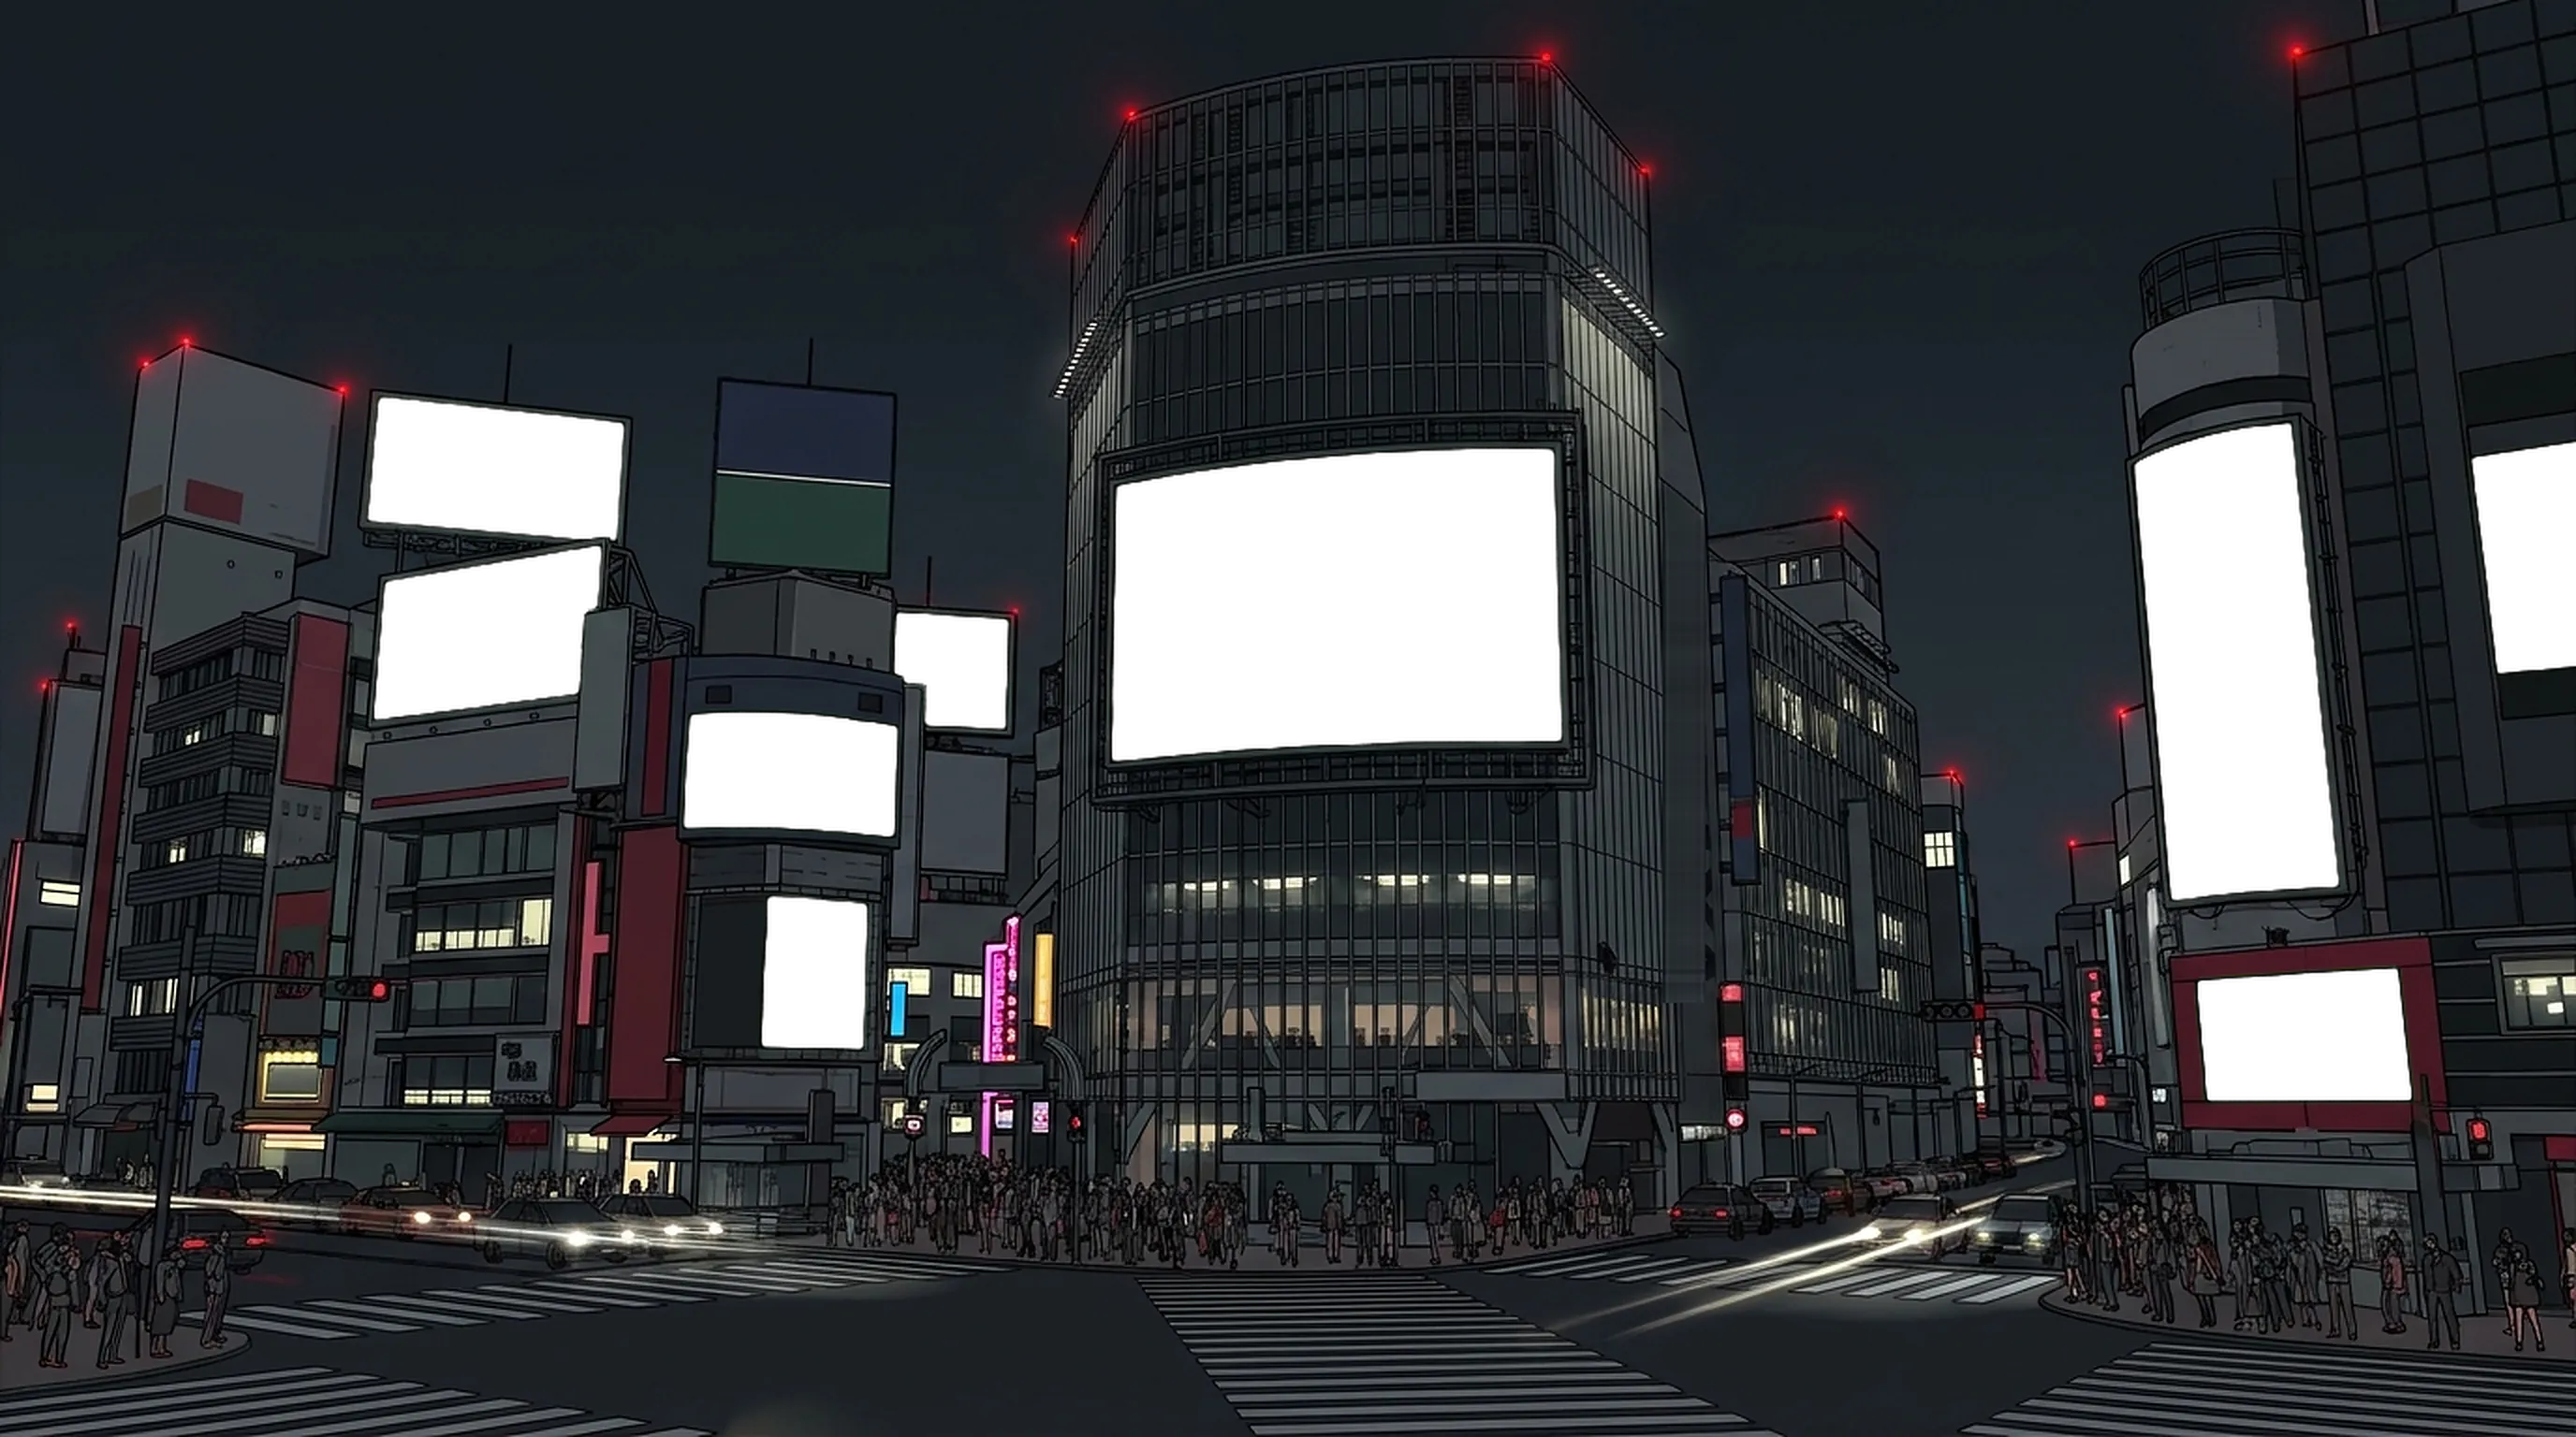
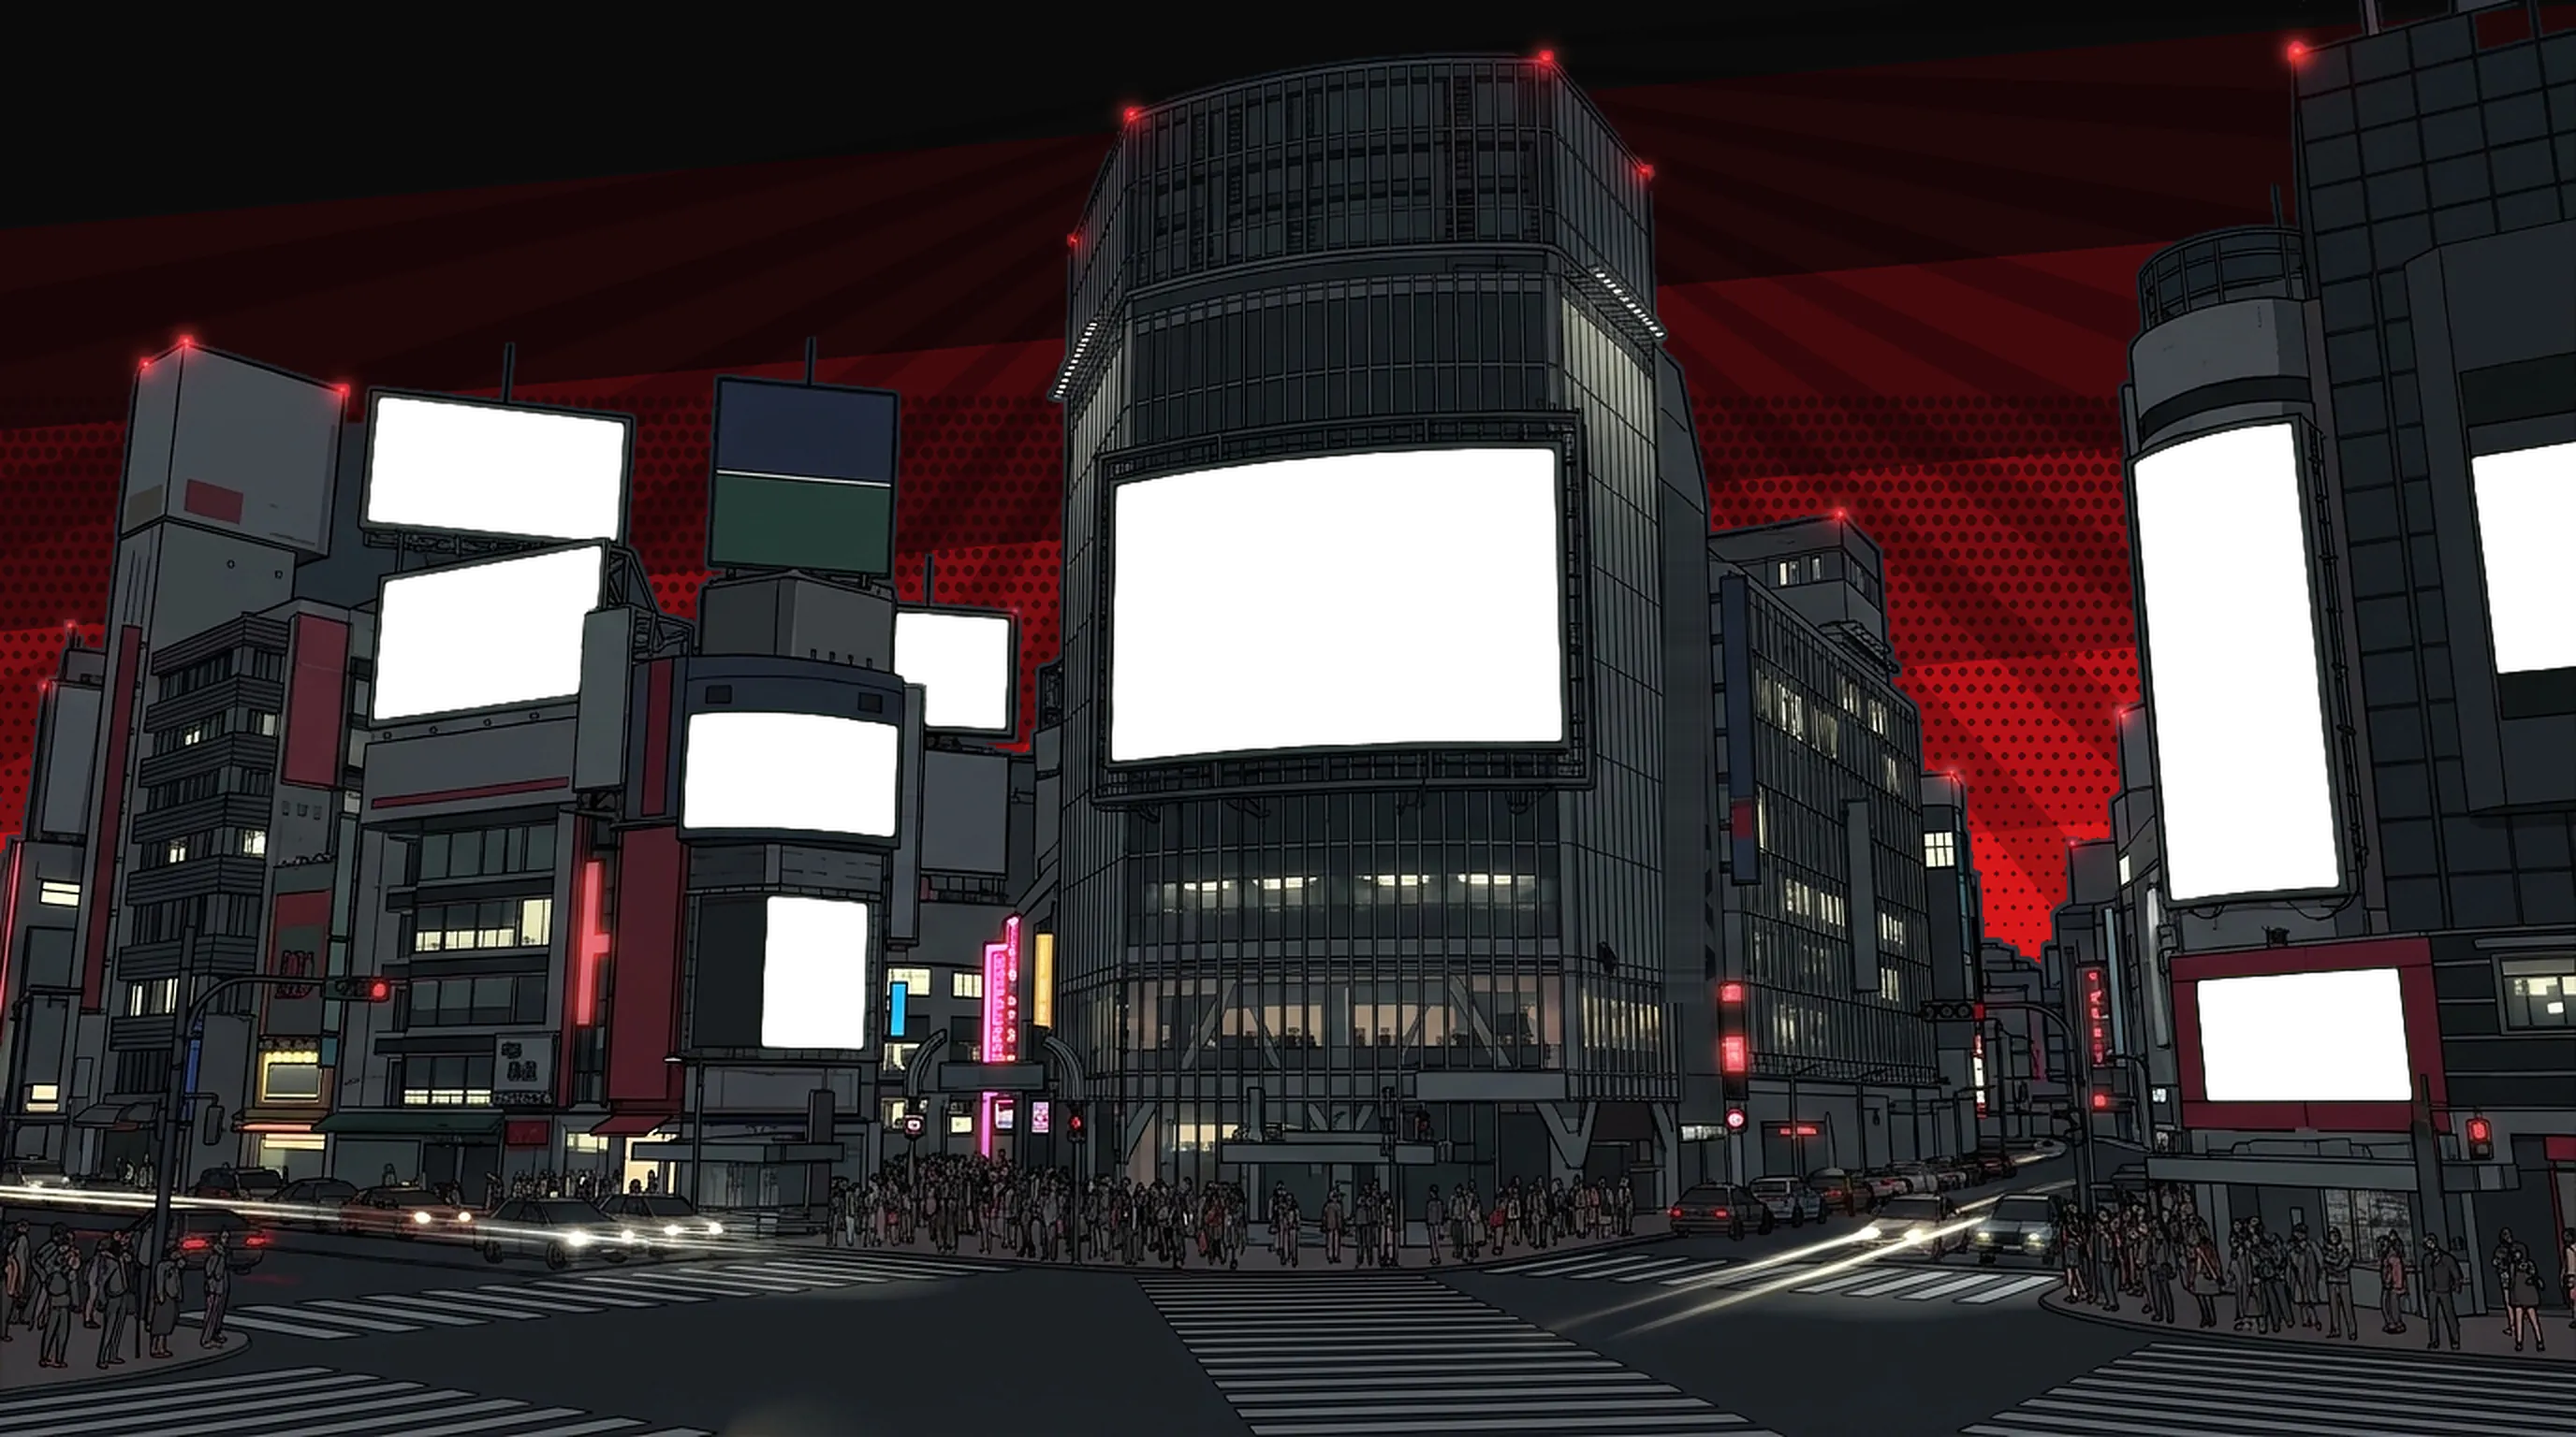
Red and black sky over the square

diff --git a/tests/e2e/site.spec.js b/tests/e2e/site.spec.js
@@ -1238,11 +1238,10 @@ test('SIDE QUESTS plays THE SQUARE: a painted square with nine screens, the big 
   const run = sq.locator('.sq-main .sq-bar .sq-bar-run');
   await expect(run.locator('span')).toHaveCount(4);
   const x0 = await run.evaluate((e) => e.getBoundingClientRect().left);
-  await page.waitForTimeout(250);
-  expect(await run.evaluate((e) => e.getBoundingClientRect().left)).toBeGreaterThan(x0);
+  await expect.poll(() => run.evaluate((e) => e.getBoundingClientRect().left), { timeout: 3000 }).toBeGreaterThan(x0);
   for (const t of ['TAKE YOUR', '2,000+', '727', 'BORING']) await expect(sq).not.toContainText(t); // (fresh lines, not the ones the rest of the site repeats)
-  await expect(page.locator('body')).toHaveAttribute('data-screen', 'side-quests', { timeout: 8000 });
-  await expect(sq).toHaveCount(0, { timeout: 4000 }); // (it cleans itself up)
+  await expect(page.locator('body')).toHaveAttribute('data-screen', 'side-quests', { timeout: 12000 });
+  await expect(sq).toHaveCount(0, { timeout: 8000 }); // (it cleans itself up)
 });
 
 test('the departure board and the station lights never show off the title (they used to hang faded over the city on THE PLAN)', async ({ page }) => {

diff --git a/DESIGN.md b/DESIGN.md
@@ -163,7 +163,7 @@ From John's research notes (kept verbatim in spirit):
   - **THE DROP** (board -> any page): the board rushes at you and splits on a jagged seam, you are on a rooftop over the night city, you drop past a skyscraper's windows (motion-blur smear grows with speed, speed lines), the chapter name rides the fall in cut-out letters, white star-flash landing.
   - **THE RISE** (back to the board): the page falls away below, you rocket up the tower and burst over the roof into a semi bird's-eye view of the city, "THE BOARD" sign, star-flash.
   - **NEXT STOP** (SKILLS' entrance): **from inside the train car** (Nano Banana interior `interior.webp`: ring hoops, plain light strip, bench; windows keyed see-through). Tunnel lights streak past, the car rocks, the station glides into the windows and stops; its sign (fitted inside one window pane, the camera aims at that pane on phones) reads the next chapter; ding-dong; star-flash.
-  - **SIDE QUESTS = THE SQUARE** (Nov 20, John: "make it look like an actual billboard instead of a poster in front of a building... the middle of a Tokyo square, other mini advertisements, our star design, our philosophy, our name, filler billboards... the biggest in the middle is SIDE QUESTS... digital, attached to the building with the same textures"). An original night scramble-crossing square (Gemini, Nano Banana Pro, toon style; a fake vertical "word" on one building painted out), its **nine video screens painted into the buildings** (bezels, frames, brackets) and keyed clear (`square.webp`). The ads are **live LED content behind the picture**, each mapped onto its measured four corners (`rectToQuad`, 5% overscan under the bezel), with an LED dot grid and a glow of its own colour spilling onto the frame: NOW SHOWING / SIDE QUESTS in cut-out letters (the big centre screen), LOOK CLOSER (tall), WANTED JOHN NGUYEN, our spinning star on halftone, BREAK THE ROUTINE, STEAL THE SHOW, NEW ? LEAD, JN, red hazard stripes. **The square's ads never repeat the lines the rest of the site already uses** (Nov 21, John: "we used a lot of the sayings, the apps, take your time, how many tests... make it different, yet close to our Persona 5 themed resume"): fresh heist / investigation lines in the calling-card voice, no stats, no motto (a test checks TAKE YOUR, 2,000+, 727 and BORING are absent). The small ads switch on first, the big one last. **Every ad moves** (Nov 21, John: "make the ads animate more"): a bright scan bar rolls down every screen; a **black bar across the top of the big screen** (Nov 21, John: "not obstructing the headline... NOW SHOWING traversing from the left side to the right... another pops up from the left, like a loop") carries NOW SHOWING ★ in yellow LED, sliding left to right in a seamless loop (a track of two identical halves moved by one half; the headline sits below it), the black slash slides, the SIDE QUESTS letters hop; LOOK blinks and CLOSER zooms, a drawn eye glances side to side; WANTED blinks and JOHN jolts; STEAL THE SHOW ★ scrolls as a ticker; ROUTINE glitches; the ? bounces; JN flips with a light sweep; the star spins; the stripes run. **The push is slow enough to read** ("make the zoom in to the big ad slower so users can read it"): the square holds 0.8 s, the camera drifts into SIDE QUESTS over 1.05 s (power2.in: slow first, fast only at the end), flash, the page at 1.85 s (this cut is longer than the others on purpose). Reduced motion: none of it, an instant cut. A phone held upright opens on JOHN NGUYEN and the star, then pans to the big screen. Gemini vs the old poster-on-a-building, both orders: digital billboard 7.2 vs 4, attached 7 vs 3.2, square with mini ads 7.2 vs 2.9.
+  - **SIDE QUESTS = THE SQUARE** (Nov 20, John: "make it look like an actual billboard instead of a poster in front of a building... the middle of a Tokyo square, other mini advertisements, our star design, our philosophy, our name, filler billboards... the biggest in the middle is SIDE QUESTS... digital, attached to the building with the same textures"). An original night scramble-crossing square (Gemini, Nano Banana Pro, toon style; a fake vertical "word" on one building painted out), under a **red-and-black sky** (Nov 21, John: "make the sky more Persona 5 theme, red and black"): black at the top stepping down through hard slanted crimson bands to a bright red horizon, black halftone dots over the red (bigger higher up), faint dark rays fanning from behind the big tower's crown; the dark buildings stand out against it and the screens still lead. The sky was found by its smoothness and its own colour per row (ink lines and windows stop it), grown into the old grey glow round each rooftop lamp and down through the horizon haze; each lamp gets a small red glow back. Gemini, old vs new sky, both orders: Persona red-and-black 7.1 vs 3.2, its **nine video screens painted into the buildings** (bezels, frames, brackets) and keyed clear (`square.webp`). The ads are **live LED content behind the picture**, each mapped onto its measured four corners (`rectToQuad`, 5% overscan under the bezel), with an LED dot grid and a glow of its own colour spilling onto the frame: NOW SHOWING / SIDE QUESTS in cut-out letters (the big centre screen), LOOK CLOSER (tall), WANTED JOHN NGUYEN, our spinning star on halftone, BREAK THE ROUTINE, STEAL THE SHOW, NEW ? LEAD, JN, red hazard stripes. **The square's ads never repeat the lines the rest of the site already uses** (Nov 21, John: "we used a lot of the sayings, the apps, take your time, how many tests... make it different, yet close to our Persona 5 themed resume"): fresh heist / investigation lines in the calling-card voice, no stats, no motto (a test checks TAKE YOUR, 2,000+, 727 and BORING are absent). The small ads switch on first, the big one last. **Every ad moves** (Nov 21, John: "make the ads animate more"): a bright scan bar rolls down every screen; a **black bar across the top of the big screen** (Nov 21, John: "not obstructing the headline... NOW SHOWING traversing from the left side to the right... another pops up from the left, like a loop") carries NOW SHOWING ★ in yellow LED, sliding left to right in a seamless loop (a track of two identical halves moved by one half; the headline sits below it), the black slash slides, the SIDE QUESTS letters hop; LOOK blinks and CLOSER zooms, a drawn eye glances side to side; WANTED blinks and JOHN jolts; STEAL THE SHOW ★ scrolls as a ticker; ROUTINE glitches; the ? bounces; JN flips with a light sweep; the star spins; the stripes run. **The push is slow enough to read** ("make the zoom in to the big ad slower so users can read it"): the square holds 0.8 s, the camera drifts into SIDE QUESTS over 1.05 s (power2.in: slow first, fast only at the end), flash, the page at 1.85 s (this cut is longer than the others on purpose). Reduced motion: none of it, an instant cut. A phone held upright opens on JOHN NGUYEN and the star, then pans to the big screen. Gemini vs the old poster-on-a-building, both orders: digital billboard 7.2 vs 4, attached 7 vs 3.2, square with mini ads 7.2 vs 2.9.
   - **CALLING CARD** (into CONTACT): a calling card spins in from deep in the frame, smacks the lens, flips away.
   - Every film cut has **letterbox bars** (black, red edge) that close at the start and open on landing, and an impact jolt before the flash.
 - **NEXT EPISODE**: every story page ends with an anime "next time" card. Keep scrolling (or swiping) past the bottom and a fuse fills; full fuse rolls the next chapter (pushes only count after you've rested at the bottom ~0.35s, so coasting scrolls don't trigger it). Order: Missions, Skills, Different, Stats, Side Quests, Contact, back to the board.
